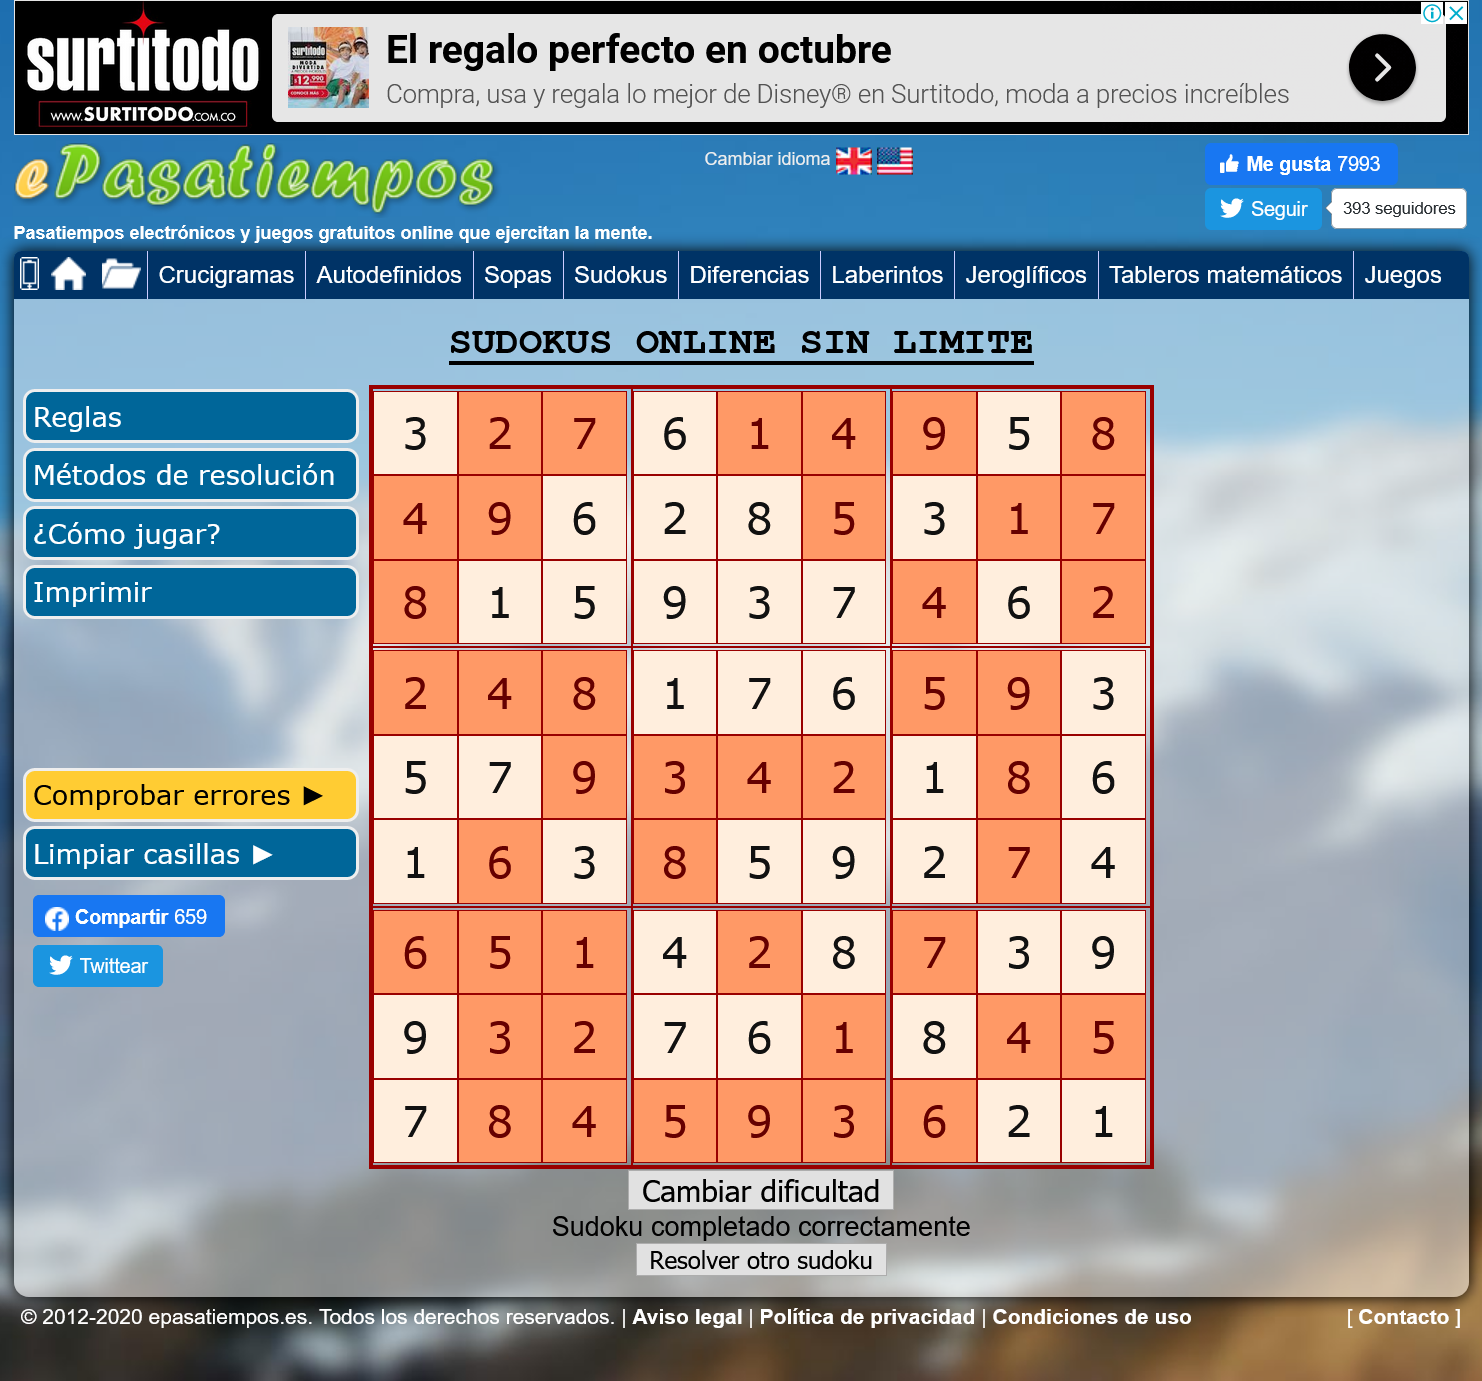
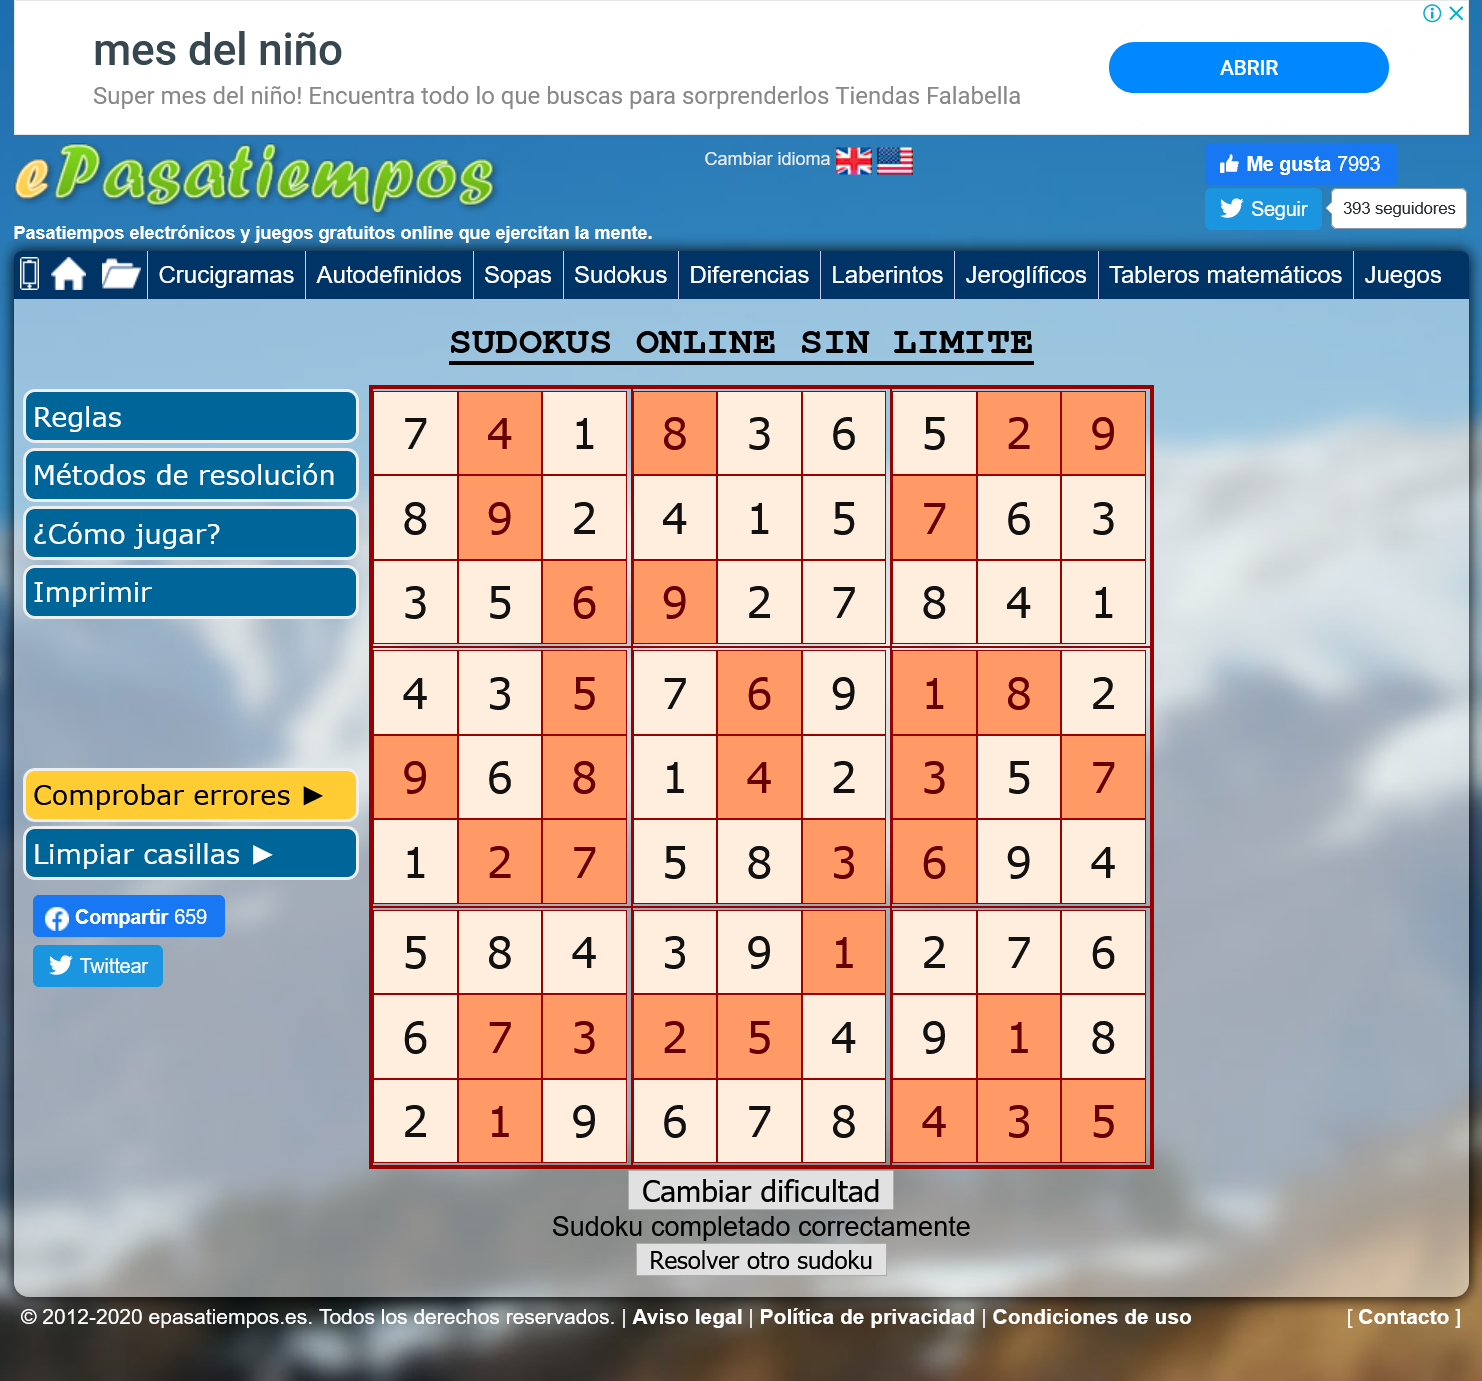
:sparkles: loop condition to solve more sudokus added

Changed region(s): [[0.2483, 0.2802, 0.776, 0.8407], [0.0, 0.0, 0.9933, 0.1245]]

diff --git a/main.py b/main.py
@@ -20,5 +20,27 @@ python_button.click()
 driver.save_screenshot("sudokuSolved.png")
 driver.execute_script('document.body.style.MozTransform = "scale(0.60)";')
 driver.execute_script('document.body.style.MozTransformOrigin = "0 0";')
+while True:
+    text = input("")
+    if text == "":
+        driver.execute_script('document.body.style.MozTransform = "scale(1.00)";')
+        driver.execute_script('document.body.style.MozTransformOrigin = "0 0";')
+        driver.set_window_size(1000, 1000)
+        driver.save_screenshot("sudoku.png")
+        grid = get("sudoku.png")
+        solution = solve(grid)
+        i = 0
+        for m in range(9):
+            for n in range(9):
+                square = driver.find_element_by_id("c" + str(i))
+                square.send_keys(str(solution[m, n]))
+                i += 1
+        python_button = driver.find_element_by_id("btCheck")
+        python_button.click()
+        driver.save_screenshot("sudokuSolved.png")
+        driver.execute_script('document.body.style.MozTransform = "scale(0.60)";')
+        driver.execute_script('document.body.style.MozTransformOrigin = "0 0";')
+    elif text=="exit":
+        break
 
 # driver.close()
